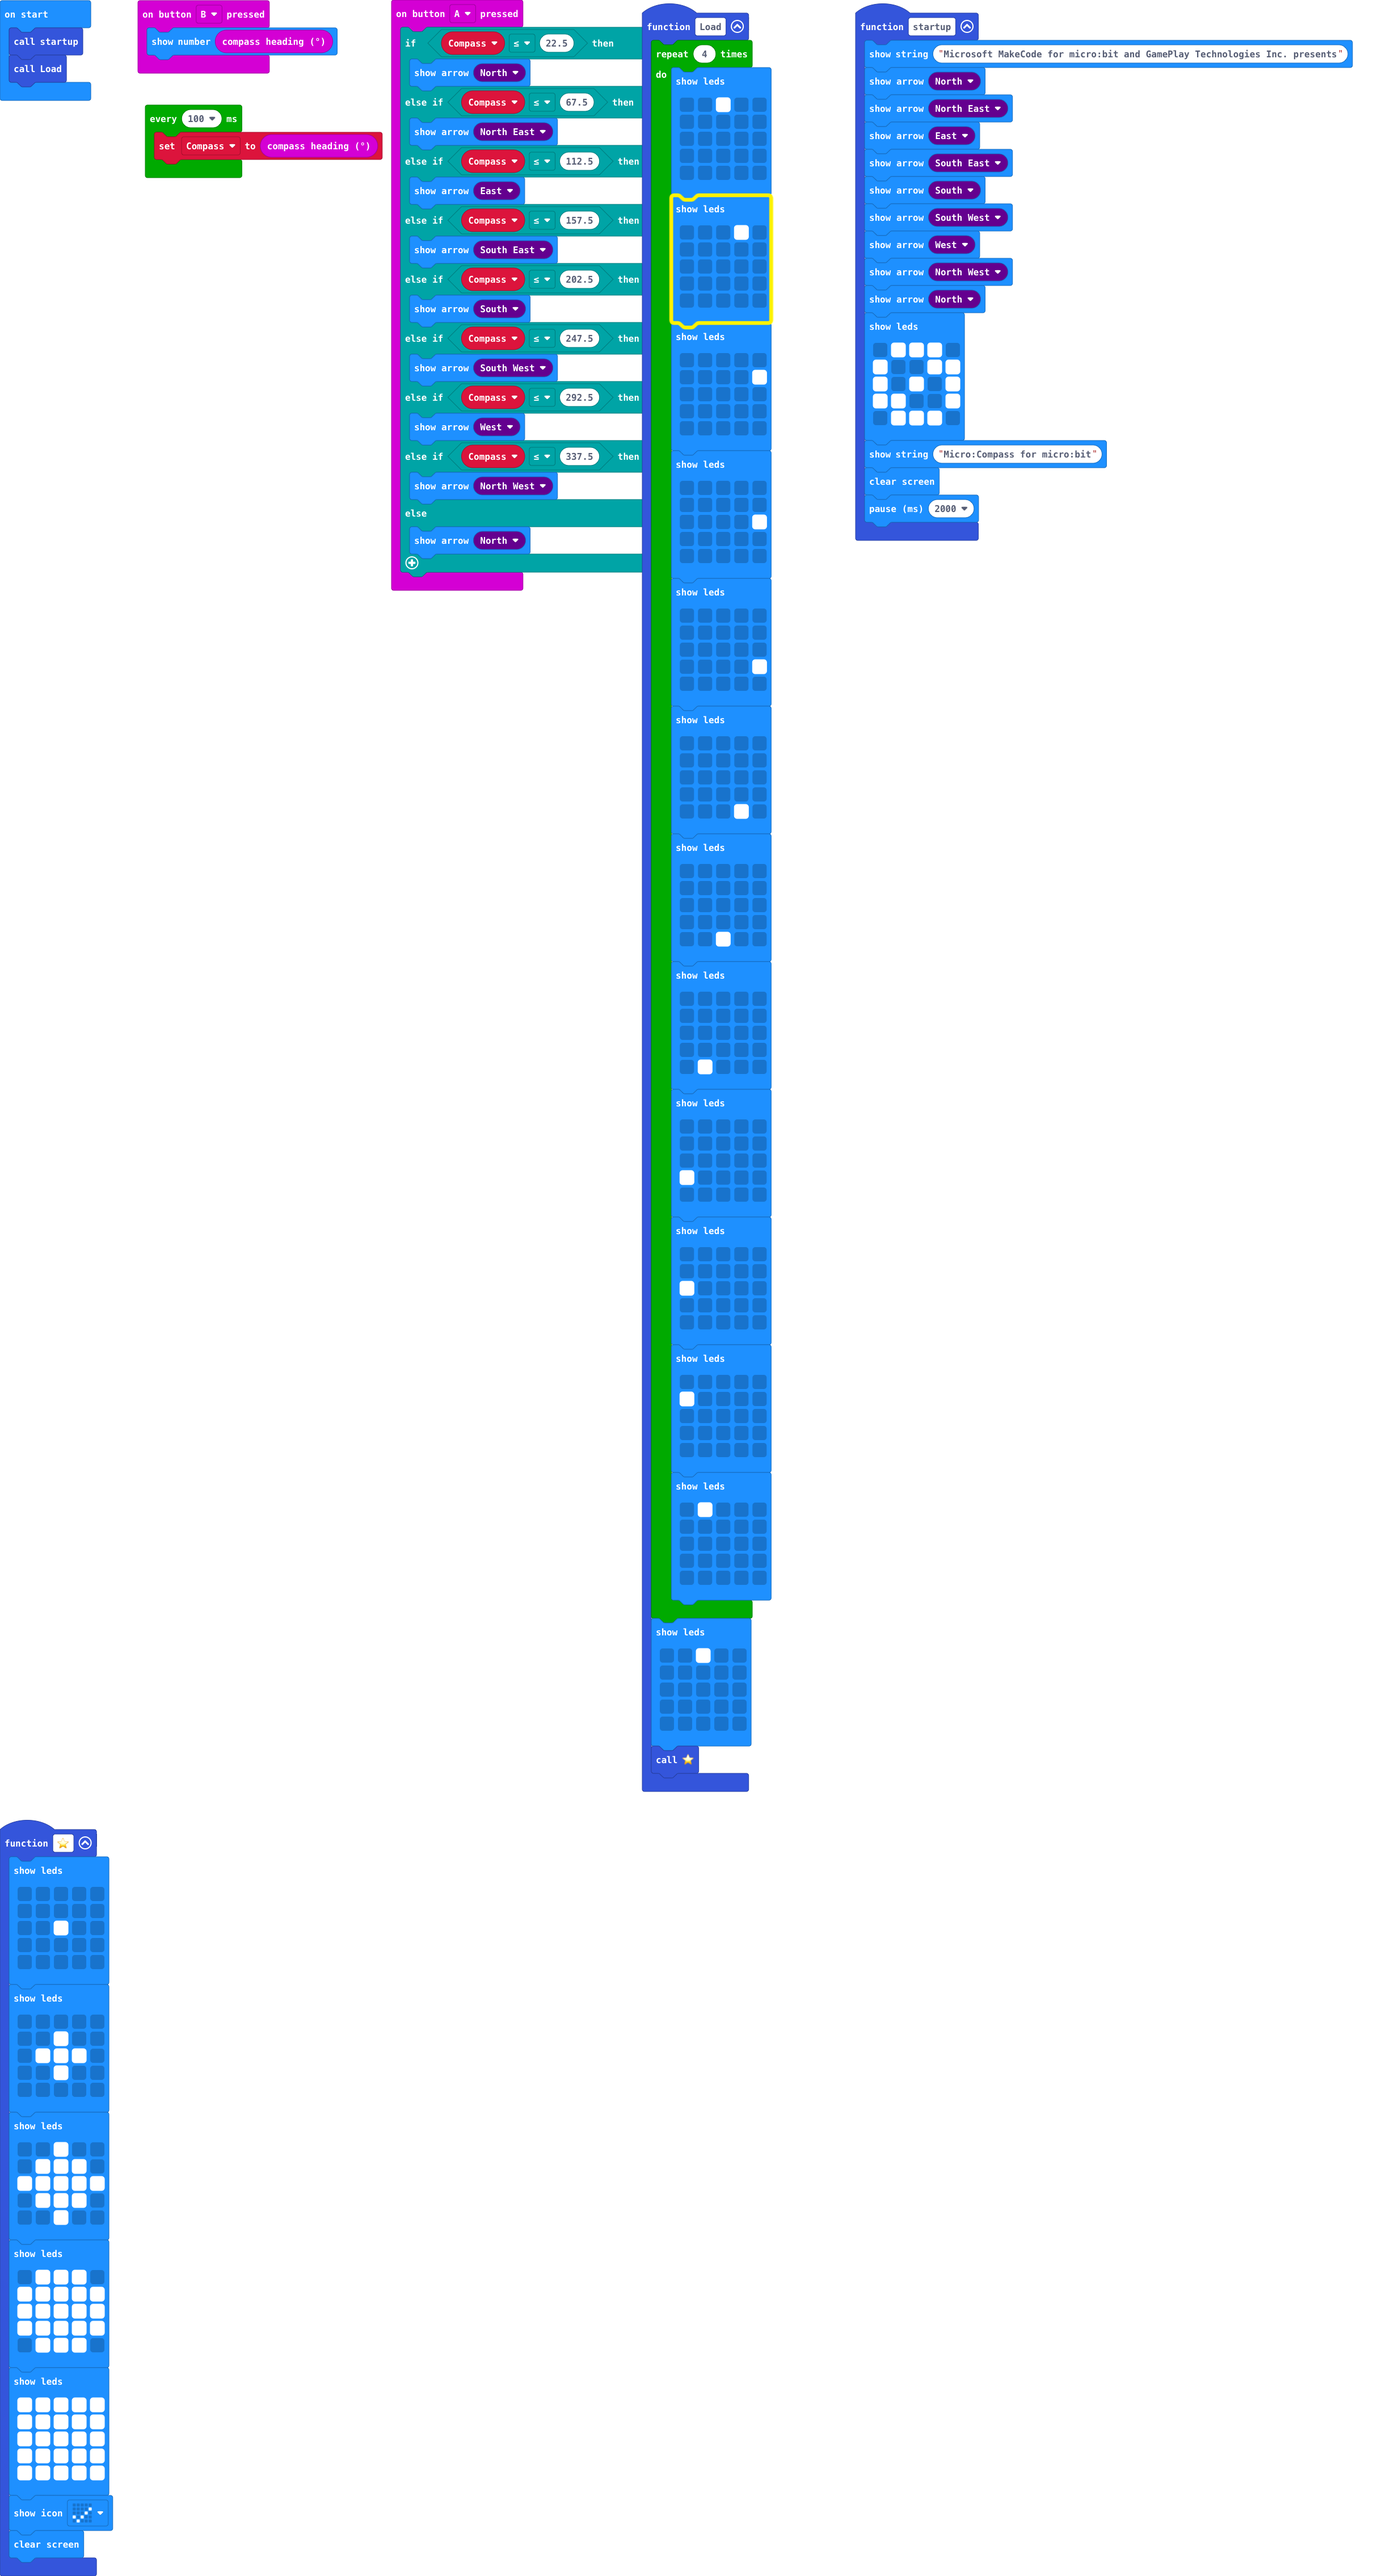
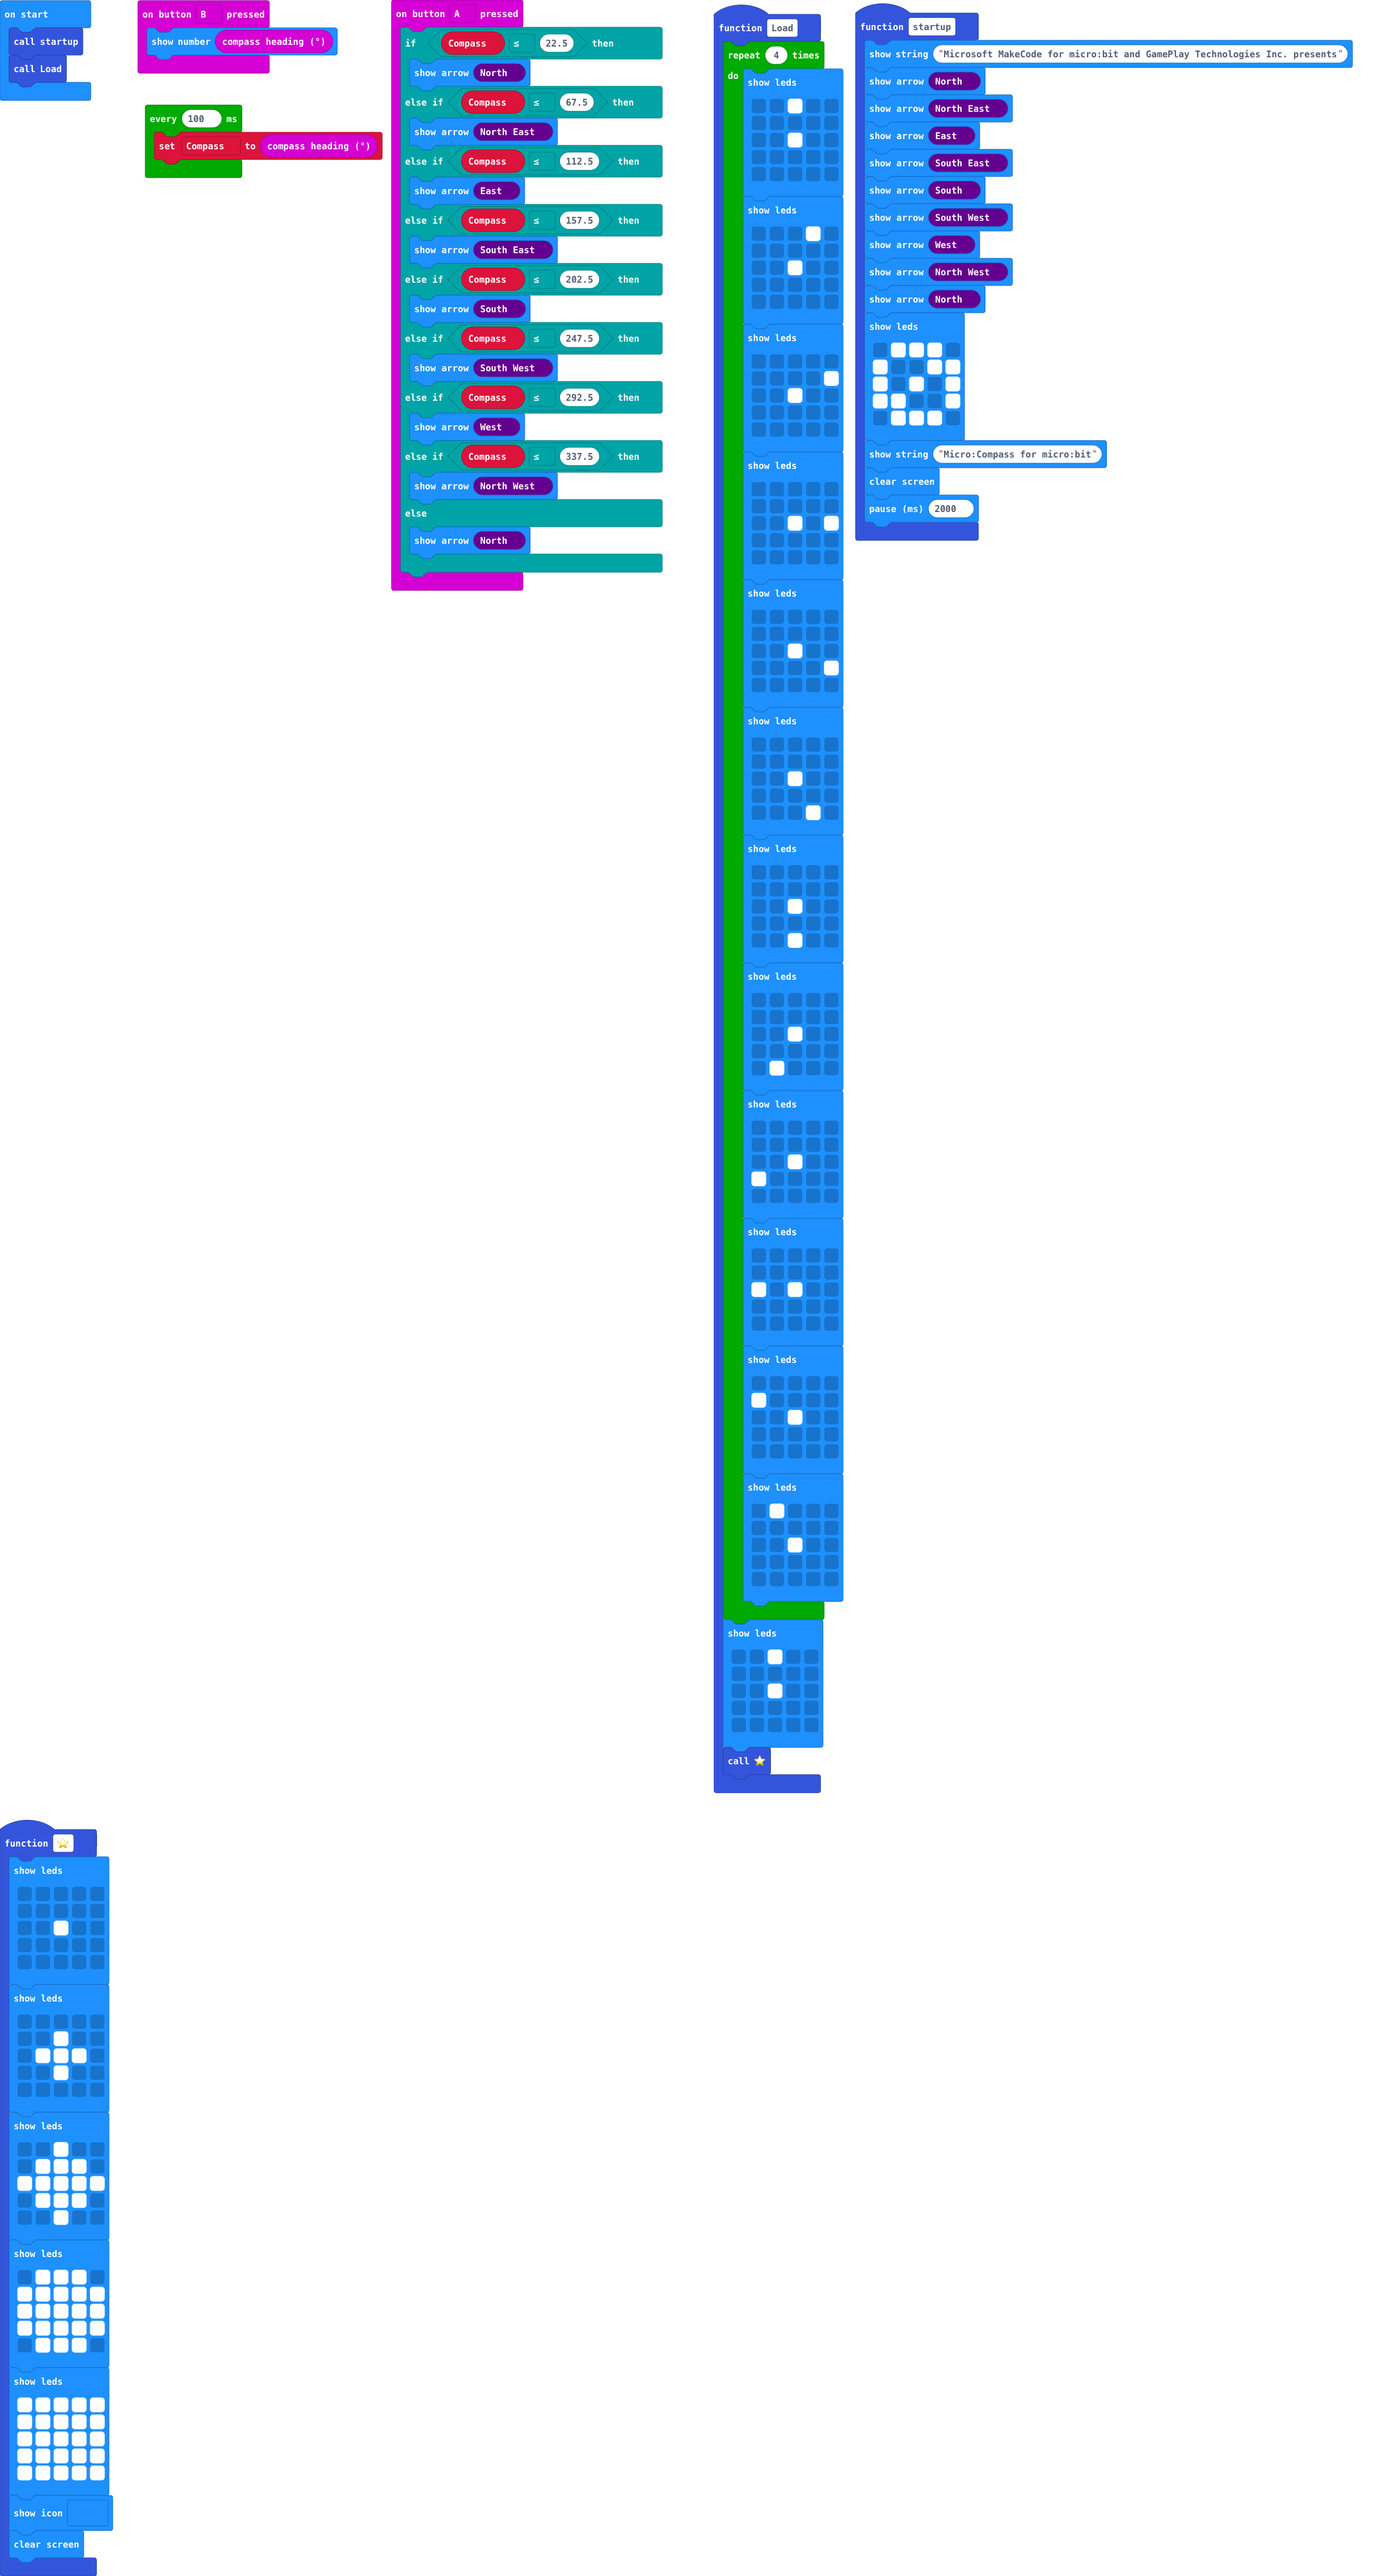
Main GUI (Clone of Clock GUI) added

Changed region(s): [[0.4368, 0.0, 0.624, 0.7146]]

diff --git a/main.ts b/main.ts
@@ -3,84 +3,84 @@ function Load () {
         basic.showLeds(`
             . . # . .
             . . . . .
-            . . . . .
+            . . # . .
             . . . . .
             . . . . .
             `)
         basic.showLeds(`
             . . . # .
             . . . . .
-            . . . . .
+            . . # . .
             . . . . .
             . . . . .
             `)
         basic.showLeds(`
             . . . . .
             . . . . #
-            . . . . .
+            . . # . .
             . . . . .
             . . . . .
             `)
         basic.showLeds(`
             . . . . .
             . . . . .
+            . . # . #
+            . . . . .
+            . . . . .
+            `)
+        basic.showLeds(`
+            . . . . .
+            . . . . .
+            . . # . .
             . . . . #
             . . . . .
-            . . . . .
             `)
         basic.showLeds(`
             . . . . .
             . . . . .
-            . . . . .
-            . . . . #
-            . . . . .
-            `)
-        basic.showLeds(`
-            . . . . .
-            . . . . .
-            . . . . .
+            . . # . .
             . . . . .
             . . . # .
             `)
         basic.showLeds(`
             . . . . .
             . . . . .
-            . . . . .
+            . . # . .
             . . . . .
             . . # . .
             `)
         basic.showLeds(`
             . . . . .
             . . . . .
-            . . . . .
+            . . # . .
             . . . . .
             . # . . .
             `)
         basic.showLeds(`
             . . . . .
             . . . . .
-            . . . . .
+            . . # . .
             # . . . .
             . . . . .
             `)
         basic.showLeds(`
             . . . . .
             . . . . .
-            # . . . .
+            # . # . .
             . . . . .
             . . . . .
             `)
         basic.showLeds(`
             . . . . .
             # . . . .
-            . . . . .
+            . . # . .
             . . . . .
             . . . . .
             `)
         basic.showLeds(`
             . # . . .
             . . . . .
-            . . . . .
+            . . # . .
             . . . . .
             . . . . .
             `)
@@ -88,7 +88,7 @@ function Load () {
     basic.showLeds(`
         . . # . .
         . . . . .
-        . . . . .
+        . . # . .
         . . . . .
         . . . . .
         `)
